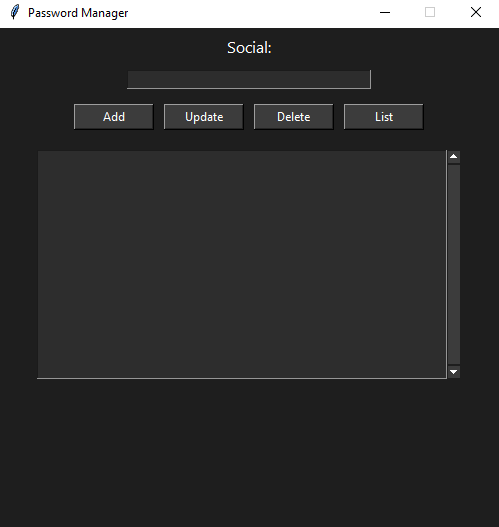
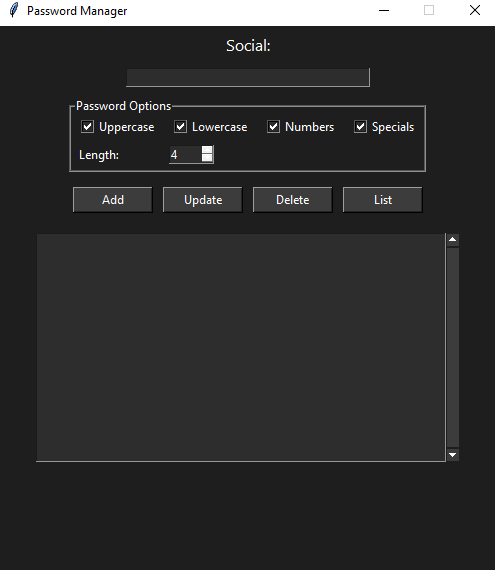
Fix - Show password options

diff --git a/main.py b/main.py
@@ -71,7 +71,7 @@ class PasswordManagerApp:
         self.root = root
         self.root.title("Password Manager")
         self.root.configure(bg="#1e1e1e")
-        self.root.geometry("500x500")
+        self.root.geometry("500x550")
         self.root.resizable(False, False)
 
         style = ttk.Style()
@@ -87,16 +87,40 @@ class PasswordManagerApp:
                         arrowcolor="white")
         
         style.map("Vertical.TScrollbar",
-          background=[("active", "#3c3c3c"), ("!active", "#3c3c3c")],
-          arrowcolor=[("active", "white"), ("!active", "white")],
-          troughcolor=[("!active", "#2d2d2d"), ("active", "#2d2d2d")])
+                  background=[("active", "#3c3c3c"), ("!active", "#3c3c3c")],
+                  arrowcolor=[("active", "white"), ("!active", "white")],
+                  troughcolor=[("!active", "#2d2d2d"), ("active", "#2d2d2d")])
         
-
         self.label = tk.Label(root, text="Social:", fg="white", bg="#1e1e1e", font=("Segoe UI", 12))
         self.label.pack(pady=5)
 
         self.entry = tk.Entry(root, width=40, bg="#2d2d2d", fg="white", insertbackground="white")
         self.entry.pack(pady=5)
+
+        # Password options
+        self.options_frame = tk.LabelFrame(root, text="Password Options", bg="#1e1e1e", fg="white")
+        self.options_frame.pack(pady=5)
+
+        self.use_uppercase = tk.BooleanVar(value=True)
+        self.use_lowercase = tk.BooleanVar(value=True)
+        self.use_digits = tk.BooleanVar(value=True)
+        self.use_specials = tk.BooleanVar(value=True)
+
+        tk.Checkbutton(self.options_frame, text="Uppercase", variable=self.use_uppercase,
+                       bg="#1e1e1e", fg="white", selectcolor="#2d2d2d").grid(row=0, column=0, padx=5, sticky="w")
+        tk.Checkbutton(self.options_frame, text="Lowercase", variable=self.use_lowercase,
+                       bg="#1e1e1e", fg="white", selectcolor="#2d2d2d").grid(row=0, column=1, padx=5, sticky="w")
+        tk.Checkbutton(self.options_frame, text="Numbers", variable=self.use_digits,
+                       bg="#1e1e1e", fg="white", selectcolor="#2d2d2d").grid(row=0, column=2, padx=5, sticky="w")
+        tk.Checkbutton(self.options_frame, text="Specials", variable=self.use_specials,
+                       bg="#1e1e1e", fg="white", selectcolor="#2d2d2d").grid(row=0, column=3, padx=5, sticky="w")
+
+        self.length_label = tk.Label(self.options_frame, text="Length:", bg="#1e1e1e", fg="white")
+        self.length_label.grid(row=1, column=0, padx=5, pady=5, sticky="w")
+
+        self.length_spinbox = tk.Spinbox(self.options_frame, from_=4, to=64, width=5,
+                                         bg="#2d2d2d", fg="white", insertbackground="white")
+        self.length_spinbox.grid(row=1, column=1, padx=5, pady=5, sticky="w")
 
         self.button_frame = tk.Frame(root, bg="#1e1e1e")
         self.button_frame.pack(pady=10)
@@ -119,7 +143,7 @@ class PasswordManagerApp:
 
         # Text widget
         self.output = tk.Text(text_frame, height=15, width=58, bg="#2d2d2d", fg="white",
-                            insertbackground="white", font=("Consolas", 10), wrap="none")
+                              insertbackground="white", font=("Consolas", 10), wrap="none")
         self.output.pack(side=tk.LEFT, fill=tk.BOTH, expand=True)
 
         # Scrollbar
@@ -129,14 +153,30 @@ class PasswordManagerApp:
         self.output.configure(yscrollcommand=scrollbar.set)
 
     def get_charset(self):
-        return string.ascii_letters + string.digits + string.punctuation
+        charset = ''
+        if self.use_uppercase.get():
+            charset += string.ascii_uppercase
+        if self.use_lowercase.get():
+            charset += string.ascii_lowercase
+        if self.use_digits.get():
+            charset += string.digits
+        if self.use_specials.get():
+            charset += string.punctuation
+        return charset
 
     def add_social(self):
         social = self.entry.get().strip()
         if not social:
             messagebox.showwarning("Warning", "Social cannot be empty.")
             return
-        password = generate_password(16, self.get_charset())
+
+        charset = self.get_charset()
+        if not charset:
+            messagebox.showwarning("Warning", "Select at least one character type.")
+            return
+
+        length = int(self.length_spinbox.get())
+        password = generate_password(length, charset)
         success, msg = save_to_db(social, password)
         if success:
             messagebox.showinfo("Success", f"Password generated and saved for {social}.")
@@ -148,7 +188,14 @@ class PasswordManagerApp:
         if not social:
             messagebox.showwarning("Warning", "Social cannot be empty.")
             return
-        password = generate_password(16, self.get_charset())
+
+        charset = self.get_charset()
+        if not charset:
+            messagebox.showwarning("Warning", "Select at least one character type.")
+            return
+
+        length = int(self.length_spinbox.get())
+        password = generate_password(length, charset)
         success, msg = update_password(social, password)
         if success:
             messagebox.showinfo("Updated", f"New password generated for {social}.")
